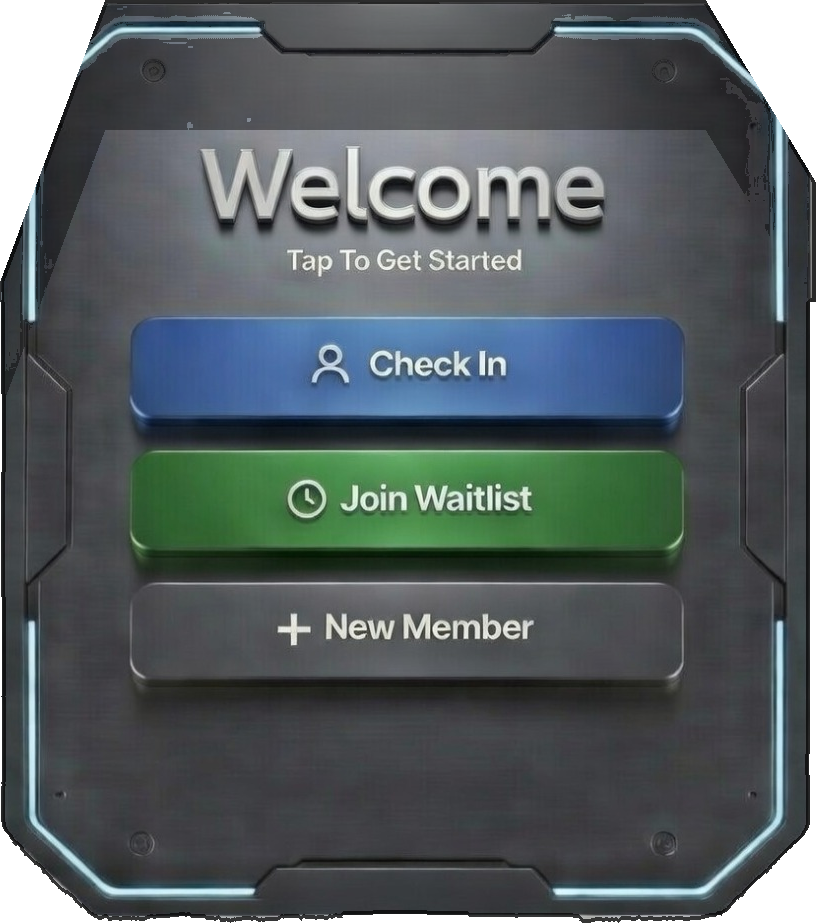
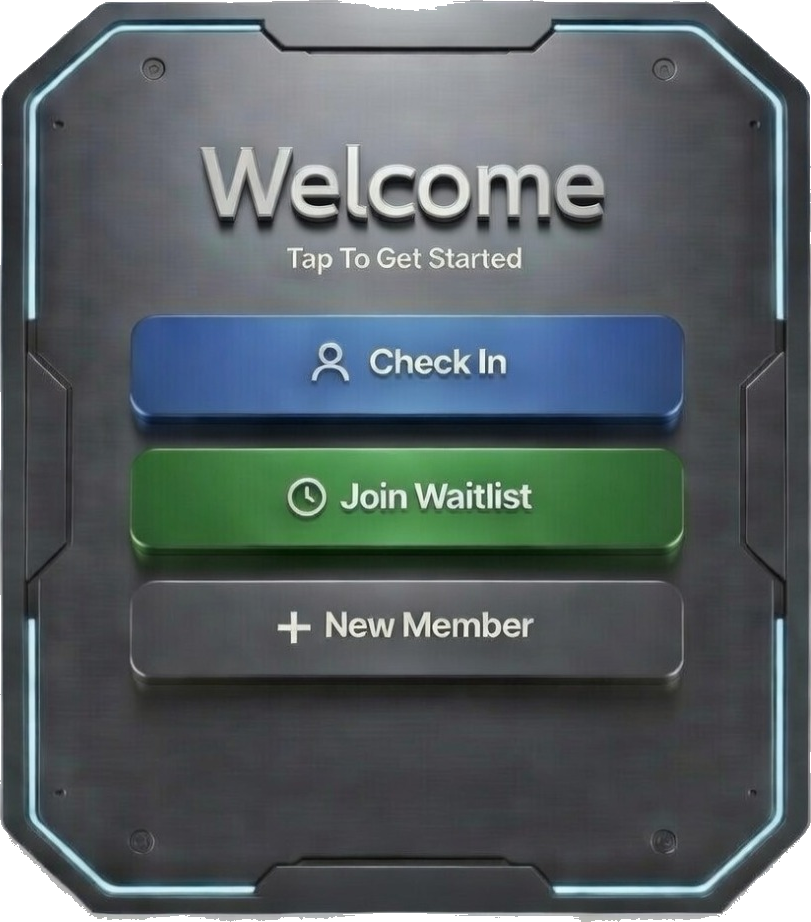
fix: v31 kiosk — simple flood-fill bg removal, zero interior modifications

diff --git a/pages/hub/social-media.js b/pages/hub/social-media.js
@@ -2773,7 +2773,7 @@ function ClubPageDashboard({ C, page, userId, onBack, onPageUpdated, onGoLive })
                                         </div>
 
                                         {/* Poker Table Visualization — Full Width */}
-                                        <div style={{ position: 'relative', width: '100%', aspectRatio: '3 / 2', marginTop: 10, marginBottom: 10 }}>
+                                        <div style={{ position: 'relative', width: '100%', aspectRatio: '1 / 1', overflow: 'hidden', marginTop: 10, marginBottom: 10 }}>
                                             {/* Table image fills entire container */}
                                             <img
                                                 src="/images/poker-table-black-gold.png"
@@ -2781,6 +2781,7 @@ function ClubPageDashboard({ C, page, userId, onBack, onPageUpdated, onGoLive })
                                                 style={{
                                                     position: 'absolute', top: 0, left: 0, width: '100%', height: '100%',
                                                     objectFit: 'contain', pointerEvents: 'none', zIndex: 0,
+                                                    transform: 'scale(1.4)',
                                                 }}
                                             />
 
@@ -3256,7 +3257,7 @@ function PublicGameBoard({ C, pageId, pageName, userId, userName, onClose }) {
                                 </div>
 
                                 {/* Poker Table Visualization — Full Width */}
-                                <div style={{ position: 'relative', width: '100%', aspectRatio: '3 / 2', marginTop: 10, marginBottom: 10 }}>
+                                <div style={{ position: 'relative', width: '100%', aspectRatio: '1 / 1', overflow: 'hidden', marginTop: 10, marginBottom: 10 }}>
                                     {/* Table image fills entire container */}
                                     <img
                                         src="/images/poker-table-black-gold.png"
@@ -3264,6 +3265,7 @@ function PublicGameBoard({ C, pageId, pageName, userId, userName, onClose }) {
                                         style={{
                                             position: 'absolute', top: 0, left: 0, width: '100%', height: '100%',
                                             objectFit: 'contain', pointerEvents: 'none', zIndex: 0,
+                                            transform: 'scale(1.4)',
                                         }}
                                     />
 

diff --git a/pages/commander/kiosk.js b/pages/commander/kiosk.js
@@ -441,7 +441,7 @@ export default function MembershipKiosk() {
             <div style={{ position: 'relative', maxWidth: '90%', maxHeight: '90%', display: 'flex' }}>
               {/* Background Image — PNG with transparent background */}
               <img
-                src="/images/commander/kiosk-welcome.png?v=30"
+                src="/images/commander/kiosk-welcome.png?v=31"
                 alt="Welcome Kiosk"
                 style={{
                   width: '100%',
